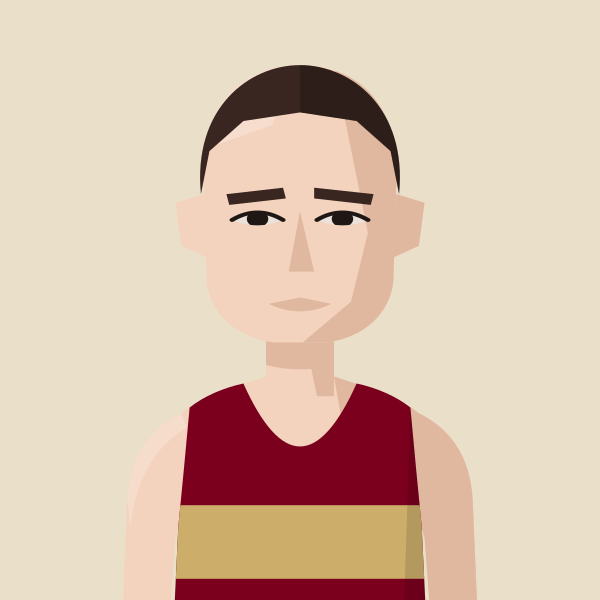
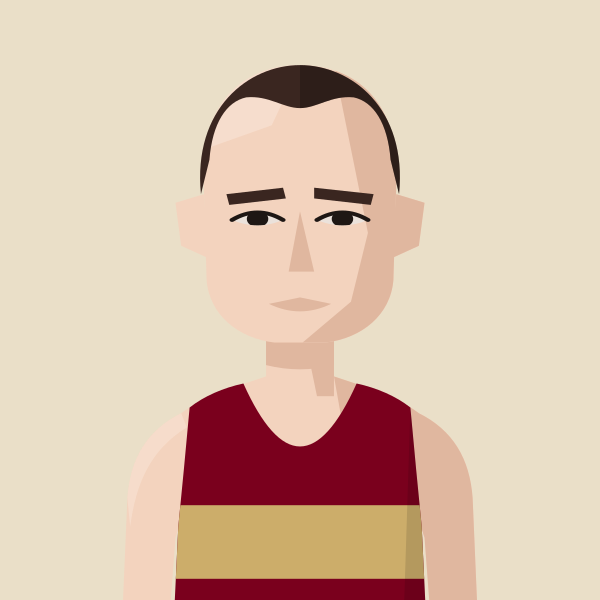
Mark Anderson: rounder receding hairline
Claude-Session: https://claude.ai/code/session_01DgcEr9hQHGiZw2mBbM5jbH

Changed region(s): [[0.33, 0.15, 0.66, 0.3]]

diff --git a/files/index.html b/files/index.html
@@ -596,7 +596,7 @@ return m;})();
 const portraitFile=(name,club)=>{const k=normalizeNameForCompare(name||'').replace(/\s*\(([^)]*)\)$/,(m,c)=>CLUBS[c.toUpperCase()]?'':m);const a=PORTRAITS[k];if(a&&a.club===club)return a.file;const b=PORTRAITS[k+'@'+club];return b?b.file:null;};
 // Athlete header figure: superstar portrait if we have one, else a grey runner in the club vest, else the plain vest icon
 // Changes whenever any portrait changes (set by tools/build_og.py), so browsers fetch fresh images instead of old cached ones
-const PORTRAIT_V='624118d4';
+const PORTRAIT_V='be5e2015';
 const AthletePortrait=({name,club,w,fill,onClick})=>{const[failed,setFailed]=useState(false);const file=portraitFile(name,club);const src=file?`/portraits/athletes/${file}.svg?v=${PORTRAIT_V}`:PORTRAIT_CLUBS.has(club)?`/portraits/clubs/${club.replace(/\//g,'').replace(/&/g,'and')}.svg?v=${PORTRAIT_V}`:null;if(!src||failed)return<div onClick={onClick} className={onClick?'cursor-pointer':''}><ClubShield club={club} size={w}/></div>;const h=Math.round(w*148/126),ih=Math.round(w*1.4);if(fill)return<div onClick={onClick} className="cursor-pointer" style={{alignSelf:'stretch',minHeight:h,aspectRatio:'126 / 148',flexShrink:0,position:'relative',borderRadius:4,overflow:'hidden'}}><img src={src} alt={file?`Portrait of ${name.replace(/\s*\([^)]*\)$/,'')}`:`Runner in ${CLUBS[club]?.name||club} vest`} style={{position:'absolute',top:0,left:0,display:'block',width:'100%',height:'auto'}} onError={()=>setFailed(true)}/></div>;return<div style={{width:w,height:h,borderRadius:4,overflow:'hidden',flexShrink:0}}><img src={src} alt={file?`Portrait of ${name.replace(/\s*\([^)]*\)$/,'')}`:`Runner in ${CLUBS[club]?.name||club} vest`} width={w} height={ih} style={{display:'block',width:w,height:ih}} onError={()=>setFailed(true)}/></div>;};
 const getClubVestSvg=(club)=>{
   const p="M3 0 L6 0 Q7 4 10 5 Q13 4 14 0 L17 0 L17 20 L3 20 Z";

diff --git a/tools/gen_portraits.py b/tools/gen_portraits.py
@@ -936,7 +936,7 @@ save("john-mather", figure("BEL", skin=1, hair="croprecede", hair_colour="light 
 save("jon-hobbs", figure("BEL", skin=1, hair="quiff", hair_colour="#241A15"))
 save("justin-chaston", figure("BEL", skin=2, hair="messyvolume", hair_colour="#3A2A20", gaunt=True))  # Steve: a bit more hair
 save("matt-chaston", figure("BEL", skin=1, hair="messyvolume", hair_colour="#7A4528", rosy=True))
-save("mark-anderson", figure("BEL", skin=1, hair="crop", hair_colour="dark brown", jaw="square"))
+save("mark-anderson", figure("BEL", skin=1, hair="croprecederound", hair_colour="dark brown", jaw="square"))  # Steve chose option 4
 
 # Belgravian archive photos, batch 4 (Oct 2026). B/w photos except Kimaiyo and Dent (colour).
 save("martin-lake", figure("BEL", skin=1, hair="quiff", hair_colour="dark brown", jaw="square"))
